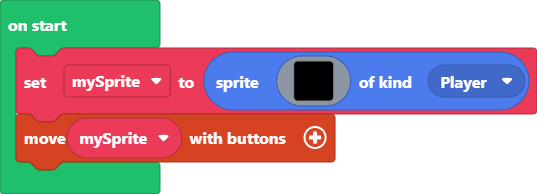
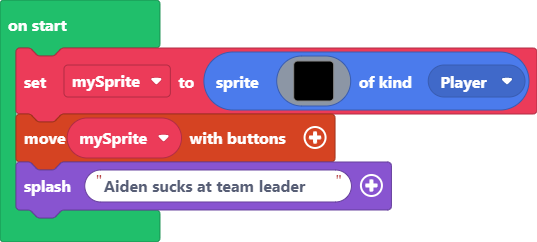
Update main.blocks, main.ts

diff --git a/main.ts b/main.ts
@@ -17,3 +17,4 @@ let mySprite = sprites.create(img`
     . . . . . . . . . . . . . . . . 
     `, SpriteKind.Player)
 controller.moveSprite(mySprite)
+game.splash("Aiden sucks at team leader")
